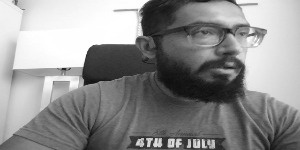
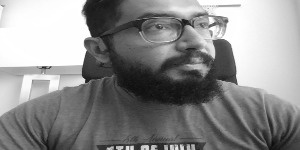
Added secondary stream

diff --git a/static/js/main.js b/static/js/main.js
@@ -55,6 +55,9 @@ $(document).ready(function(){
   });
 });
 
+var video2;
+var takePhotoButton;
+var toggleFullScreenButton;
 var switchCameraButton;
 var amountOfCameras = 0;
 var currentFacingMode = 'environment';
@@ -113,7 +116,7 @@ document.addEventListener('DOMContentLoaded', function (event) {
 
           // init the UI and the camera stream
           initCameraUI();
-          // initCameraStream();
+          initCameraStream();
         });
       })
       .catch(function (error) {
@@ -132,7 +135,7 @@ document.addEventListener('DOMContentLoaded', function (event) {
 });
 
 function initCameraUI() {
-  video = document.getElementById('video');
+  video2 = document.getElementById('video');
 
   takePhotoButton = document.getElementById('takePhotoButton');
   toggleFullScreenButton = document.getElementById('toggleFullScreenButton');
@@ -184,7 +187,7 @@ function initCameraUI() {
       if (currentFacingMode === 'environment') currentFacingMode = 'user';
       else currentFacingMode = 'environment';
 
-      // initCameraStream();
+      initCameraStream();
     });
   }
 
@@ -218,4 +221,56 @@ function initCameraUI() {
     },
     false,
   );
+}
+
+function initCameraStream() {
+  // stop any active streams in the window
+  if (window.stream) {
+    window.stream.getTracks().forEach(function (track) {
+      console.log(track);
+      track.stop();
+    });
+  }
+
+  // we ask for a square resolution, it will cropped on top (landscape)
+  // or cropped at the sides (landscape)
+  var size = 1280;
+
+  var constraints = {
+    audio: false,
+    video: {
+      width: { ideal: size },
+      height: { ideal: size },
+      //width: { min: 1024, ideal: window.innerWidth, max: 1920 },
+      //height: { min: 776, ideal: window.innerHeight, max: 1080 },
+      facingMode: currentFacingMode,
+    },
+  };
+
+  navigator.mediaDevices
+    .getUserMedia(constraints)
+    .then(handleSuccess)
+    .catch(handleError);
+
+  function handleSuccess(stream) {
+    window.stream = stream; // make stream available to browser console
+    video2.srcObject = stream;
+
+    if (constraints.video.facingMode) {
+      if (constraints.video.facingMode === 'environment') {
+        switchCameraButton.setAttribute('aria-pressed', true);
+      } else {
+        switchCameraButton.setAttribute('aria-pressed', false);
+      }
+    }
+
+    const track = window.stream.getVideoTracks()[0];
+    const settings = track.getSettings();
+    str = JSON.stringify(settings, null, 4);
+    console.log('settings ' + str);
+  }
+
+  function handleError(error) {
+    console.error('getUserMedia() error: ', error);
+  }
 }

diff --git a/templates/index.html b/templates/index.html
@@ -40,6 +40,12 @@
     </head>
     <body>
         <div id="container">
+            <div id="vid_container">
+                <video id="video" autoplay playsinline></video>
+                <div id="video_overlay"></div>
+              </div>
+            
+            
             <div  id="vid_container">
                 <video autoplay="true" id="videoElement"></video>
                 <img id="photo">
